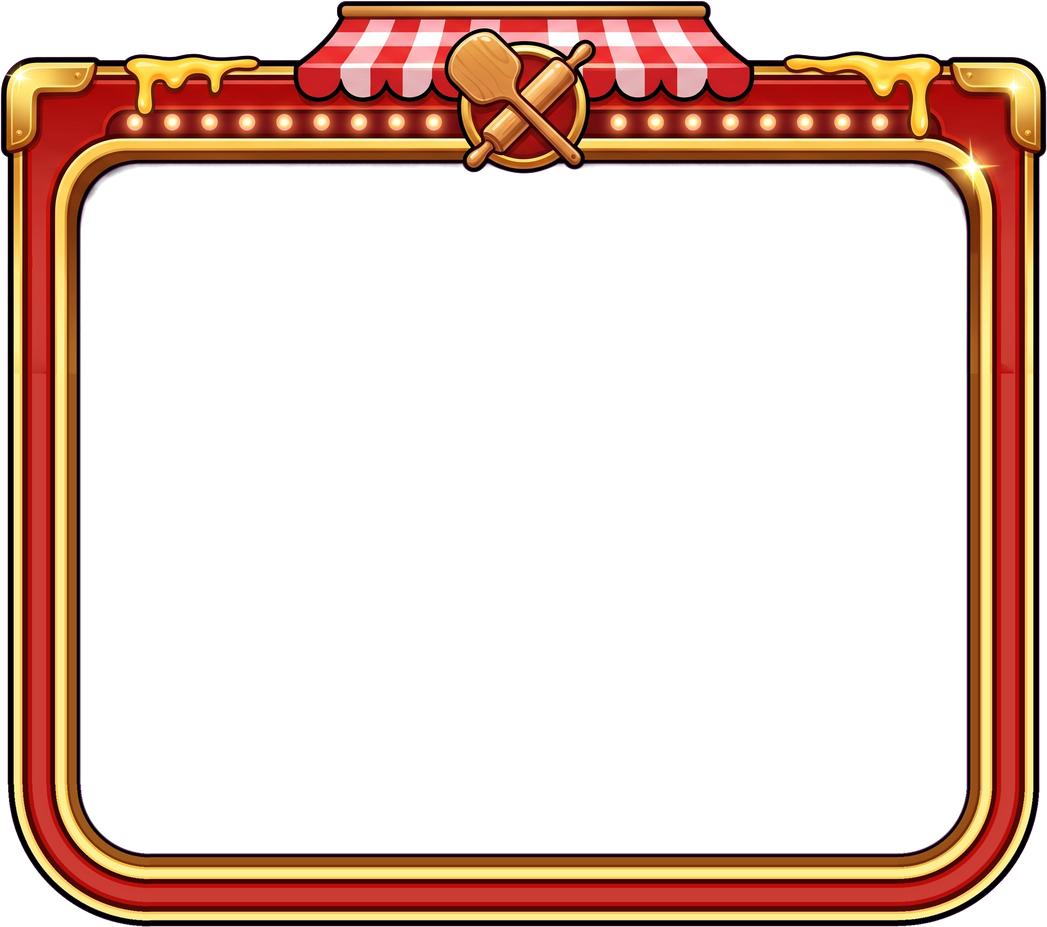
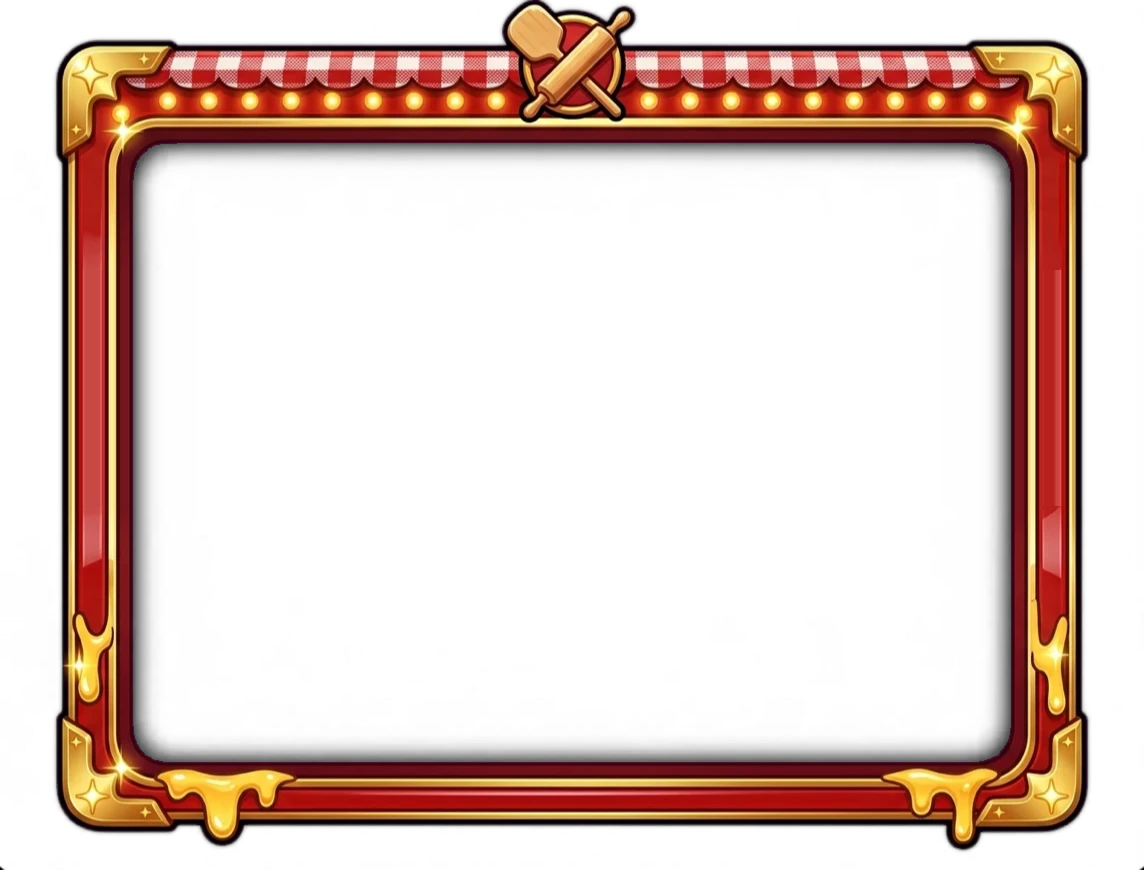
Pizza Rush: original red/gold frame restored (side bars lengthened for near-square cells)
Claude-Session: https://claude.ai/code/session_0182kiXh1gpsSteoiPFXToWD

diff --git a/Reimei Games/slots/pizza-rush/src/game/stage.ts b/Reimei Games/slots/pizza-rush/src/game/stage.ts
@@ -179,8 +179,8 @@ export class Stage {
     if (this.portrait) {
       this.logo.scale.set(0.6);
       this.logo.position.set(540, 150);
-      this.frame.scale.set(1.0);
-      this.frame.position.set(540, 700);
+      this.frame.scale.set(0.92);
+      this.frame.position.set(540, 712);
       this.tony.scale.set(0.36);
       this.tony.position.set(540, 1420);
       this.fsPanel.scale.set(0.7);
@@ -189,8 +189,8 @@ export class Stage {
       // commandes en panneaux latéraux (DOM) : la scène se tient entre les deux
       this.logo.scale.set(0.4);
       this.logo.position.set(230, 120);
-      this.frame.scale.set(0.92);
-      this.frame.position.set(1000, 450);
+      this.frame.scale.set(0.86);
+      this.frame.position.set(1000, 452);
       this.tony.scale.set(0.44);
       this.tony.position.set(455, 1080);
       this.fsPanel.scale.set(0.72);

diff --git a/Reimei Games/slots/pizza-rush/scripts/assets.py b/Reimei Games/slots/pizza-rush/scripts/assets.py
@@ -38,63 +38,42 @@ for vieux in ('fond-jour.webp', 'fond-nuit.webp'):
 logo = rogner(cle_verte(np.asarray(Image.open(os.path.join(SRC, 'Pizza_Rush_game_logo_eeeb4730.jpg')).convert('RGB'))))
 Image.fromarray(logo).resize((900, round(900 * logo.shape[0] / logo.shape[1])), Image.LANCZOS).save(os.path.join(IMG, 'logo.png'))
 
-# ---- cadre (rouge laqué et or) : Gemini a raté le bas → on garde le haut, on prolonge les côtés avec leur moulure
-# exacte et on génère le bas et ses coins arrondis à partir de cette moulure (même rayon que les coins du haut).
-def cle_magenta(a):
-    a = a.astype(np.float32); r, g, b = a[..., 0], a[..., 1], a[..., 2]
-    d = (np.minimum(r, b) - g) / 255.0                      # ~1 sur le magenta pur, ~0 sur le cadre
-    alpha = np.clip((0.62 - d) / 0.30, 0, 1)
-    M = np.array([255, 0, 255], np.float32)
-    rgb = np.where(alpha[..., None] > 0.02, (a - (1 - alpha[..., None]) * M) / np.maximum(alpha[..., None], 0.02), 0)
-    out = np.zeros(a.shape[:2] + (4,), np.uint8)
-    out[..., :3] = np.clip(rgb, 0, 255); out[..., 3] = (alpha * 255).astype(np.uint8)
-    return out
-
-src = np.asarray(Image.open(os.path.join(SRC, 'Slot_machine_frame_design_b0c0cb17.jpg')).convert('RGB'))
-H0, W0 = src.shape[:2]
-GARDE = 900                 # le haut est propre jusqu'ici
-X_IN_G, X_IN_D = 335, 2417  # bords intérieurs de l'ouverture (mesurés ; le cadre va de 147 à 2605, centré sur 1376)
-Y_OUV = 428                 # haut de l'ouverture
-OUV_H = 1600                # hauteur voulue de l'ouverture → cases presque carrées
-EP = 190                    # épaisseur de la moulure des côtés
-R = 150                     # rayon des coins intérieurs (comme en haut)
-y_bas = Y_OUV + OUV_H
-H = y_bas + EP + 14
-MAG = np.array([255, 0, 255], np.uint8)
-cad = np.empty((H, W0, 3), np.uint8); cad[:] = MAG
-cad[:GARDE] = src[:GARDE]
-lignes = src[650:880]
-prof_g = np.median(lignes[:, X_IN_G - EP:X_IN_G], axis=0).astype(np.uint8)[::-1]        # k = 0 au bord intérieur → extérieur
-prof_d = np.median(lignes[:, X_IN_D + 1:X_IN_D + 1 + EP], axis=0).astype(np.uint8)       # idem côté droit
-for y in range(GARDE, y_bas - R):
-    cad[y, X_IN_G - EP:X_IN_G] = prof_g[::-1]
-    cad[y, X_IN_D + 1:X_IN_D + 1 + EP] = prof_d
-# bas droit : moulure tournée (k = distance au bord intérieur bas)
-prof_b = ((prof_g.astype(np.float32) + prof_d.astype(np.float32)) / 2).astype(np.uint8)
-for k in range(EP):
-    cad[y_bas + k, X_IN_G + R:X_IN_D + 1 - R] = prof_b[k]
-# coins arrondis : la moulure « tourne » autour du centre du coin
-for (cx, prof, sens) in ((X_IN_G + R, prof_g, -1), (X_IN_D + 1 - R, prof_d, 1)):
-    cy = y_bas - R
-    ys, xs = np.mgrid[cy:y_bas + EP, cx - (R + EP) if sens < 0 else cx:cx + 1 if sens < 0 else cx + R + EP]
-    dist = np.hypot(xs - cx, ys - cy)
-    k = np.round(dist - R).astype(int)
-    ok = (k >= 0) & (k < EP) & (ys >= cy)
-    cad[ys[ok], xs[ok]] = prof[k[ok]]
-cad = cle_magenta(cad)
+# ---- cadre d'origine (rouge laqué et or, store, ampoules, fromage) choisi par l'utilisateur.
+# Son ouverture est très large (2,3:1) : on rallonge seulement les montants unis (y 180-380) pour des cases presque
+# carrées ; coins, store, emblème, ampoules et coulures restent intacts.
+src = np.asarray(Image.open(os.path.join(SRC, 'Cadre_origine_rouge_or.webp')).convert('RGB')).astype(np.float32)
+Y_INS, AJOUT = 270, 236
+bande = np.median(src[220:330], axis=0, keepdims=True)            # ligne type des montants (sans bruit)
+src = np.concatenate([src[:Y_INS], np.repeat(bande, AJOUT, axis=0), src[Y_INS:]], axis=0)
+r, g, b = src[..., 0], src[..., 1], src[..., 2]
+# fond magenta + ombre intérieure violet foncé : ce sont du magenta assombri → noir semi-transparent
+fondlike = (g < np.minimum(r, b) - 45) & (np.abs(r - b) < 70)
+n, lab = cv2.connectedComponents(fondlike.astype(np.uint8), connectivity=4)
+ids = set(np.unique(np.concatenate([lab[0], lab[-1], lab[:, 0], lab[:, -1]]))) - {0}
+H, W = fondlike.shape
+cy, cx = H // 2, W // 2
+ids.add(lab[cy, cx])                                                   # l'ouverture
+fond = np.isin(lab, list(ids)) & (lab > 0)
+alpha = np.ones((H, W), np.float32)
+rgb = src.copy()
+lum = np.maximum(r, b) / 255.0
+alpha[fond] = np.clip(1 - lum[fond], 0, 1) ** 1.2                      # magenta pur → 0 ; ombre sombre → opaque noir
+rgb[fond] = 0
+# liseré : pixels du cadre teintés de magenta au bord → on retire la part de magenta
+bord = (~fond) & (cv2.dilate(fond.astype(np.uint8), np.ones((3, 3), np.uint8)) > 0)
+rgb[bord, 1] = np.maximum(rgb[bord, 1], np.minimum(rgb[bord, 0], rgb[bord, 2]) * 0.55)
+cad = np.dstack([np.clip(rgb, 0, 255), alpha * 255]).astype(np.uint8)
 cad = rogner(cad, 2)
-mask = (cad[..., 3] < 30).astype(np.uint8)
-n, lab, st, _ = cv2.connectedComponentsWithStats(mask)
+op = (cad[..., 3] < 40).astype(np.uint8)
+n, lab, st, _ = cv2.connectedComponentsWithStats(op)
 best = None
 for j in range(1, n):
     x, y, ww, hh, area = st[j]
     if x > 0 and y > 0 and x + ww < cad.shape[1] and y + hh < cad.shape[0]:
         if best is None or area > st[best, 4]: best = j
 fx, fy, fw, fh = [int(v) for v in st[best, :4]]
-ECH = 0.42
-im = Image.fromarray(cad); im = im.resize((round(im.width * ECH), round(im.height * ECH)), Image.LANCZOS)
+im = Image.fromarray(cad)
 im.save(os.path.join(IMG, 'cadre.png'), optimize=True)
-fx, fy, fw, fh = [round(v * ECH) for v in (fx, fy, fw, fh)]
 json.dump({'taille': [im.width, im.height], 'fenetre': [fx, fy, fw, fh]}, open(os.path.join(IMG, 'cadre.json'), 'w'))
 print('cadre', im.width, im.height, 'fenêtre', fx, fy, fw, fh, 'case', round(fw / 5), 'x', round(fh / 4))
 
